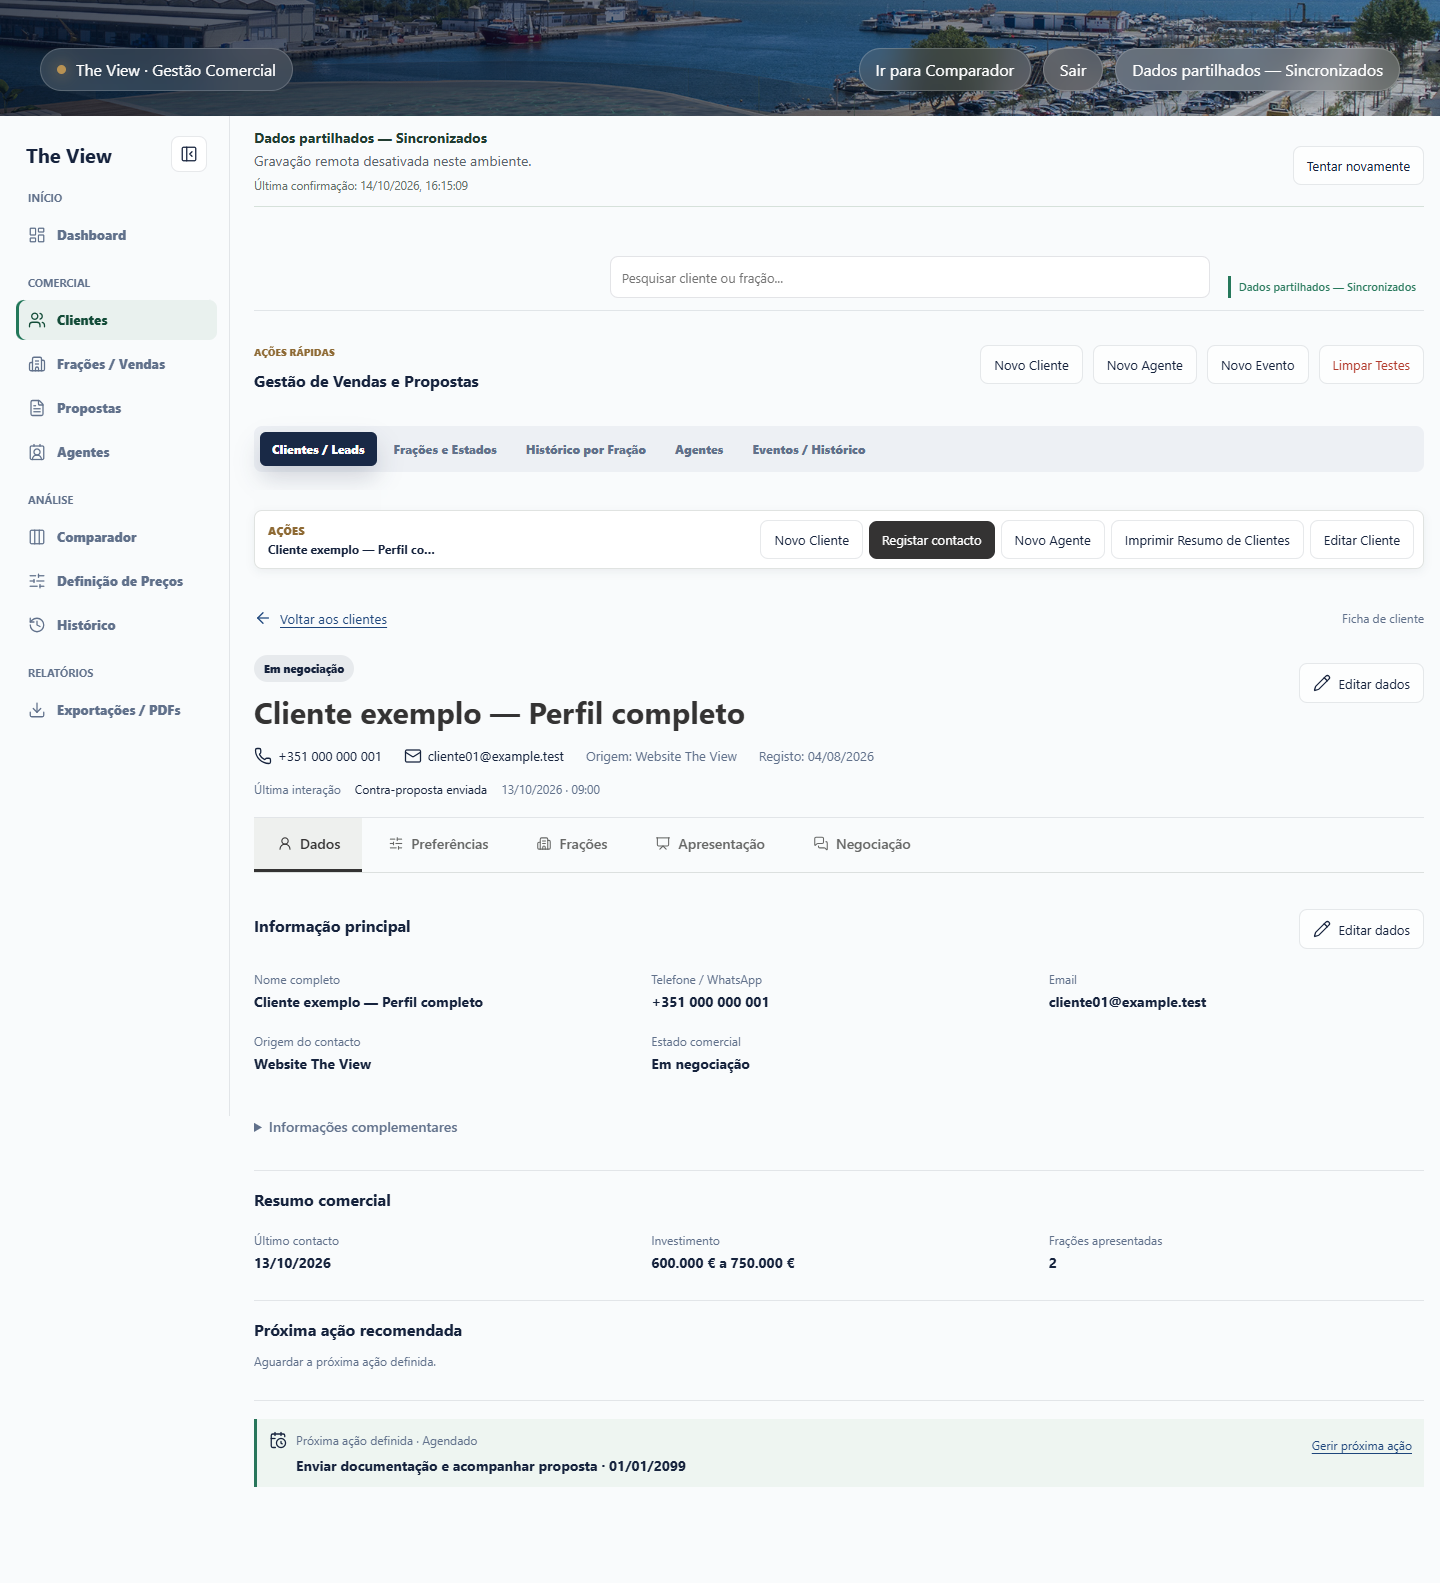
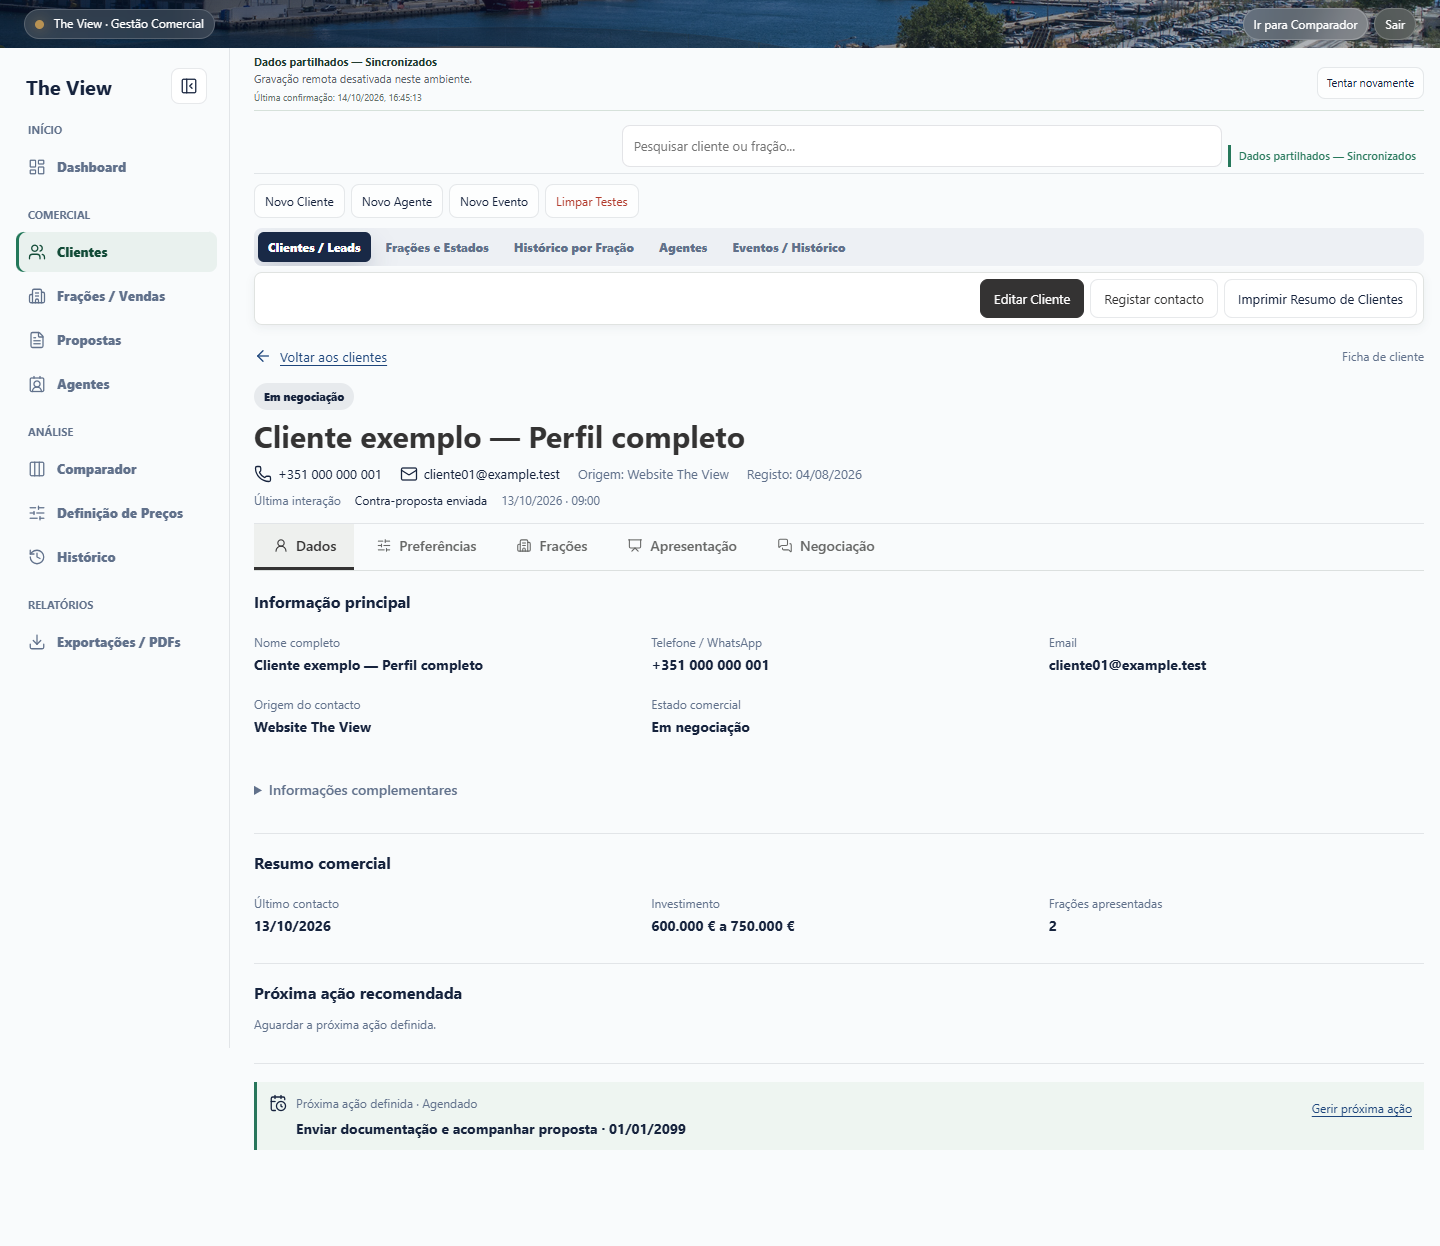
Compact full client profile bars and refresh visual evidence

diff --git a/commercial.css b/commercial.css
@@ -502,3 +502,60 @@ body:has(.ux-app-shell) .modal .primary-button.danger{background:#a94335;color:#
 .ux-sync-indicator[data-phase=pending]{color:#8c6b23;border-color:#8c6b23}
 .ux-sync-indicator:focus-visible{outline:2px solid currentColor;outline-offset:3px}
 @media(max-width:760px){#commercialSyncStatus{align-items:flex-start;flex-direction:column}#commercialSyncStatus .top-actions{flex-wrap:wrap}}
+
+/* Compact chrome only while the full client profile is the visible workspace. */
+body:has(#tab-sales:not(.hidden) .ux-client-profile-active:not(.sales-view-hidden)) .hero{height:auto;min-height:0;padding:0 24px}
+body:has(#tab-sales:not(.hidden) .ux-client-profile-active:not(.sales-view-hidden)) .topbar{flex-direction:row;gap:12px;padding:8px 0}
+body:has(#tab-sales:not(.hidden) .ux-client-profile-active:not(.sales-view-hidden)) .brand-pill{padding:6px 10px;font-size:12px;min-width:0;line-height:1.3}
+body:has(#tab-sales:not(.hidden) .ux-client-profile-active:not(.sales-view-hidden)) .brand-dot{flex-shrink:0}
+body:has(#tab-sales:not(.hidden) .ux-client-profile-active:not(.sales-view-hidden)) .topbar__actions{gap:6px;flex-wrap:nowrap;flex-shrink:0}
+body:has(#tab-sales:not(.hidden) .ux-client-profile-active:not(.sales-view-hidden)) .topbar .ghost-link{padding:6px 10px;font-size:12px;min-height:32px;white-space:nowrap}
+body:has(#tab-sales:not(.hidden) .ux-client-profile-active:not(.sales-view-hidden)) #dataStatus{display:none}
+body:has(#tab-sales:not(.hidden) .ux-client-profile-active:not(.sales-view-hidden)) #commercialSyncStatus{padding:6px 0;margin-bottom:4px;gap:8px;font-size:11px;flex-direction:row;align-items:center}
+body:has(#tab-sales:not(.hidden) .ux-client-profile-active:not(.sales-view-hidden)) #commercialSyncStatus p{margin:2px 0;font-size:11px}
+body:has(#tab-sales:not(.hidden) .ux-client-profile-active:not(.sales-view-hidden)) #commercialSyncStatus .compact-button{min-height:32px;padding:6px 9px;font-size:11px}
+body:has(#tab-sales:not(.hidden) .ux-client-profile-active:not(.sales-view-hidden)) .ux-app-header{min-height:48px;padding:6px 0;gap:6px}
+body:has(#tab-sales:not(.hidden) .ux-client-profile-active:not(.sales-view-hidden)) .ux-main-content{gap:4px}
+body:has(#tab-sales:not(.hidden) .ux-client-profile-active:not(.sales-view-hidden)) #salesQuickActions{padding:6px 0;margin-bottom:4px}
+body:has(#tab-sales:not(.hidden) .ux-client-profile-active:not(.sales-view-hidden)) #salesQuickActions .section-heading>div:first-child{display:none}
+body:has(#tab-sales:not(.hidden) .ux-client-profile-active:not(.sales-view-hidden)) #salesQuickActions .section-heading{display:block}
+body:has(#tab-sales:not(.hidden) .ux-client-profile-active:not(.sales-view-hidden)) #salesQuickActions .top-actions{justify-content:flex-start;gap:6px;flex-wrap:nowrap;overflow-x:auto}
+body:has(#tab-sales:not(.hidden) .ux-client-profile-active:not(.sales-view-hidden)) #salesQuickActions button{flex-shrink:0;min-height:34px;padding:7px 10px;font-size:12px;white-space:nowrap}
+body:has(#tab-sales:not(.hidden) .ux-client-profile-active:not(.sales-view-hidden)) #salesSubTabs{flex-wrap:nowrap;overflow-x:auto;padding:4px;margin-bottom:6px}
+body:has(#tab-sales:not(.hidden) .ux-client-profile-active:not(.sales-view-hidden)) #salesSubTabs .module-tab{flex-shrink:0;padding:7px 10px;white-space:nowrap}
+.ux-main-content>.tab-section>.ux-client-profile-active{padding-top:0}
+.ux-client-profile-active .client-sticky-actions{padding:6px;margin-bottom:4px;justify-content:flex-end}
+.ux-client-profile-active .client-sticky-actions__context,
+.ux-client-profile-active #openClientModal,
+.ux-client-profile-active #clientStickyNewAgent,
+.ux-client-profile-active [data-client-header-edit],
+.ux-client-profile-active #clientPanel-data [data-edit-client]{display:none}
+.ux-client-profile-active #clientStickyEditClient{order:-1;background:#343333;color:#fff;border-color:#343333}
+.ux-client-profile-active #openEventModalBtn{background:#fff;color:#343333;border:1px solid var(--line)}
+.ux-client-profile-active .client-sticky-actions__buttons{flex-wrap:nowrap}
+.ux-client-profile-active .client-sticky-actions__buttons>button{flex-shrink:0;white-space:nowrap}
+.ux-client-profile-active .client-layout{margin-top:0}
+.ux-client-profile-active .ux-client-workspace__top{padding:12px 0}
+.ux-client-profile-active .ux-client-return{margin-bottom:12px}
+.ux-app-shell .ux-client-profile-active .ux-client-title h2{margin-top:8px}
+.ux-client-profile-active .ux-client-contact{margin-top:10px;gap:8px 18px}
+.ux-client-profile-active .ux-client-last-interaction{margin-top:8px}
+.ux-client-profile-active .ux-client-tabs{top:calc(var(--commercial-header-height,68px) + var(--client-actions-height,58px) + 4px)}
+.ux-client-profile-active .ux-client-tabs>button{padding:12px 18px}
+.ux-client-profile-active .ux-client-workspace__content{padding-top:20px}
+.ux-app-shell .ux-client-profile-active #clientDetail{scroll-margin-top:calc(var(--commercial-header-height,68px) + var(--client-actions-height,58px) + 4px)}
+@media(max-width:760px){
+  body:has(#tab-sales:not(.hidden) .ux-client-profile-active:not(.sales-view-hidden)) .hero{padding:0 12px}
+  body:has(#tab-sales:not(.hidden) .ux-client-profile-active:not(.sales-view-hidden)) .topbar{gap:6px}
+  body:has(#tab-sales:not(.hidden) .ux-client-profile-active:not(.sales-view-hidden)) .brand-pill{font-size:11px;padding:5px 7px;gap:6px}
+  body:has(#tab-sales:not(.hidden) .ux-client-profile-active:not(.sales-view-hidden)) .topbar .ghost-link{font-size:11px;padding:6px 7px}
+  body:has(#tab-sales:not(.hidden) .ux-client-profile-active:not(.sales-view-hidden)) .ux-sidebar{padding:6px 0}
+  body:has(#tab-sales:not(.hidden) .ux-client-profile-active:not(.sales-view-hidden)) .ux-app-header{padding:4px 0;gap:4px}
+  body:has(#tab-sales:not(.hidden) .ux-client-profile-active:not(.sales-view-hidden)) #commercialSyncStatus{align-items:flex-start;flex-wrap:wrap}
+  .ux-client-profile-active .client-sticky-actions__buttons>button{padding:8px 10px;font-size:12px}
+  .ux-client-profile-active .ux-client-workspace__top{padding:10px 0}
+  .ux-client-profile-active .ux-client-return{margin-bottom:10px}
+  .ux-client-profile-active .ux-client-title{gap:0}
+  .ux-client-profile-active .ux-client-tabs>button{padding:11px 12px}
+  .ux-client-profile-active .ux-client-workspace__content{padding-top:16px}
+}

diff --git a/docs/client-profile-phase1-review/README.md b/docs/client-profile-phase1-review/README.md
@@ -9,6 +9,22 @@ Capturas reais de navegador, nao mockups. Todos os clientes, contactos, agente e
 - "Alternativas proximas" indica que o novo motor sera disponibilizado na Fase 2; nao afirma que foram avaliadas todas as alternativas.
 - API, sincronizacao e funcoes comerciais de gravacao permanecem inalteradas.
 
+## Refinamento final - barras compactas
+
+Exclusivamente na ficha completa: marca/navegacao superior compacta, menor espacamento entre barras, acoes rapidas e navegacao interna em linhas com scroll horizontal quando necessario. Todos os modulos e as quatro acoes rapidas continuam acessiveis. Os detalhes/avisos e controlos de sincronizacao nao foram escondidos; apenas o indicador duplicado do topo deixa de aparecer nesta vista.
+
+"Editar Cliente" e a unica acao principal de edicao dos dados, na barra sticky. Os atalhos duplicados do cabecalho e do painel Dados ficam ocultos apenas na ficha completa. Editar preferencias e as outras acoes especializadas continuam disponiveis. Ao fechar a ficha ou mudar de modulo/subarea, regressa o estilo anterior.
+
+Comparacao automatizada com o CSS do commit aprovado `93f509d`: dimensoes/estilos da listagem iguais antes de abrir e depois de regressar. No cliente ficticio completo, com a pagina no topo:
+
+| Viewport | Inicio dos separadores antes | Depois |
+| --- | ---: | ---: |
+| Desktop 1440x1000 | 818 px | 524 px |
+| Tablet 820x1080 | 875 px | 524 px |
+| Mobile 390x844 | 1366 px | 647 px |
+
+Capturas da ficha completa/transicao atualizadas abaixo. As imagens da listagem/regresso aprovadas anteriormente foram mantidas, pois essa experiencia nao foi alterada. [Resultados da regressao no navegador](validation-results.json), exclusivamente com dados ficticios e sem escritas comerciais.
+
 ## Computador - 1440 x 1000
 
 Listagem inicial, com painel lateral acessivel:
@@ -96,6 +112,7 @@ Regresso a listagem:
 - Zero erros JavaScript, zero POST comerciais, zero escritas na fonte. JSON comercial no localStorage identico antes/depois da navegacao. Sem overflow horizontal da pagina ou sobreposicao das abas sticky com a barra de acoes.
 - Testes direcionados `commercial-client-tabs`, `commercial-progressive-flow`, `commercial-ux` e `node --check commercial.js` aprovados. Comparacao de fonte confirmou sincronizacao e nove funcoes comerciais identicas a `db097c8`.
 - Nao se testou producao nem se guardaram alteracoes de clientes reais. Abertura/cancelamento de modais valida acessibilidade, nao substitui um teste futuro de gravacao deliberada num ambiente isolado de escrita.
+- Refinamento final: navegacao por Dashboard, Fracoes/Vendas, Agentes, Propostas, Comparador, Precos, Historico e Relatorios; unica edicao principal funcional; estilo original restaurado fora da ficha; mesmas dimensoes da listagem face ao CSS aprovado; modais acessiveis. JavaScript comercial permaneceu identico ao commit anterior.
 - Capturas de pagina completa incluem zonas abaixo do viewport indicado; os ficheiros `*-navegacao.png` e `*-transicao.png` sao capturas do viewport.
 
 Para rever manualmente: comparar listagem inicial/regresso; verificar os cinco separadores; confirmar a mensagem da Fase 2 e a tabela anterior em Fracoes. Nao fazer merge nem deployment antes da aprovacao visual.

diff --git a/CLIENT_PROFILE_PHASE1.md b/CLIENT_PROFILE_PHASE1.md
@@ -63,3 +63,11 @@ Limites: nao se validou qualquer cliente real ou ambiente de producao. Fixtures 
 - Regressao direcionada: suites client-tabs, progressive-flow e UX aprovadas; `node --check commercial.js` aprovado. Comparacao com a base confirmou o trecho de sincronizacao e nove funcoes comerciais intactos.
 - Browser 1440x1000, 820x1080 e 390x844: abas/conteudo visiveis na listagem; filtros, cliente selecionado e scroll preservados; preferencias e eventos editaveis pelos modais existentes; cinco abas operacionais; sem overflow da pagina nem sobreposicao das abas com a barra sticky. JSON comercial inalterado, zero POST comerciais, zero escritas na fonte ficticia e zero erros JavaScript.
 - Evidencia e instrucoes na galeria: listagem, transicao, cinco abas desktop/mobile e regresso. API, Google Sheets, autenticacao e sincronizacao nao foram alterados. Nao houve merge nem deployment.
+
+## Refinamento visual final do PR #3
+
+- Alteracao de aplicacao exclusivamente em `commercial.css`. Barras/espacamentos compactos apenas quando a ficha completa e a area visivel; os seletores excluem outros modulos e subareas. Navegacao, pesquisa global, acoes rapidas e avisos/controlos de sincronizacao preservados.
+- Unica acao principal "Editar Cliente" na barra sticky; atalhos de edicao duplicados ocultos exclusivamente nessa vista. Os acessos de Novo Cliente/Novo Agente continuam nas acoes rapidas. Listagem e respetivos atalhos anteriores inalterados.
+- Browser desktop/tablet/mobile: comparacao com o CSS aprovado `93f509d` confirmou mesmas dimensoes/estilos na listagem. Navegacao de todos os modulos funcionou e repoe o estilo original fora da ficha. Cinco abas, retorno/filtros/scroll e modais existentes aprovados. Zero erros JavaScript, zero POST comerciais, zero escritas na fonte e cache comercial inalterada.
+- Inicio das abas, pagina no topo e cliente ficticio completo: desktop 818 -> 524 px; tablet 875 -> 524 px; mobile 1366 -> 647 px. Capturas da ficha/transicao atualizadas na galeria, sem substituir as capturas anteriores da listagem/regresso.
+- Suites client-tabs, progressive-flow e UX e `node --check commercial.js` aprovados. Comparacao de fonte confirma sincronizacao/nove funcoes comerciais intactas. Sem alteracao a HTML, JS comercial, dados, API ou autenticacao; sem merge/deployment nem inicio da Fase 2.
